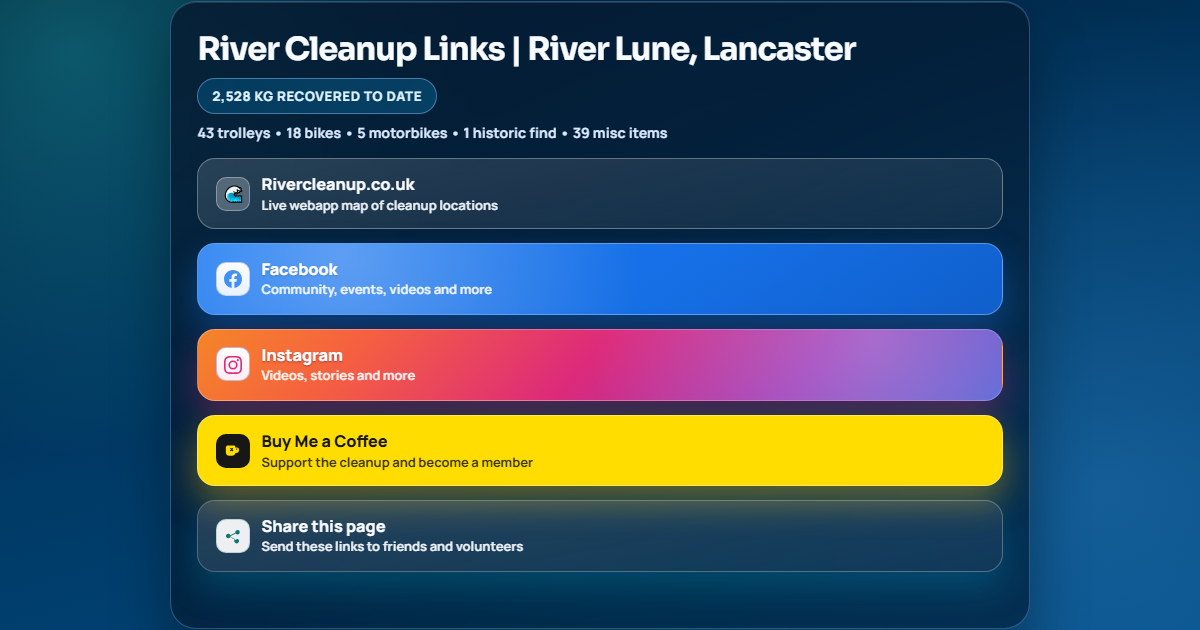
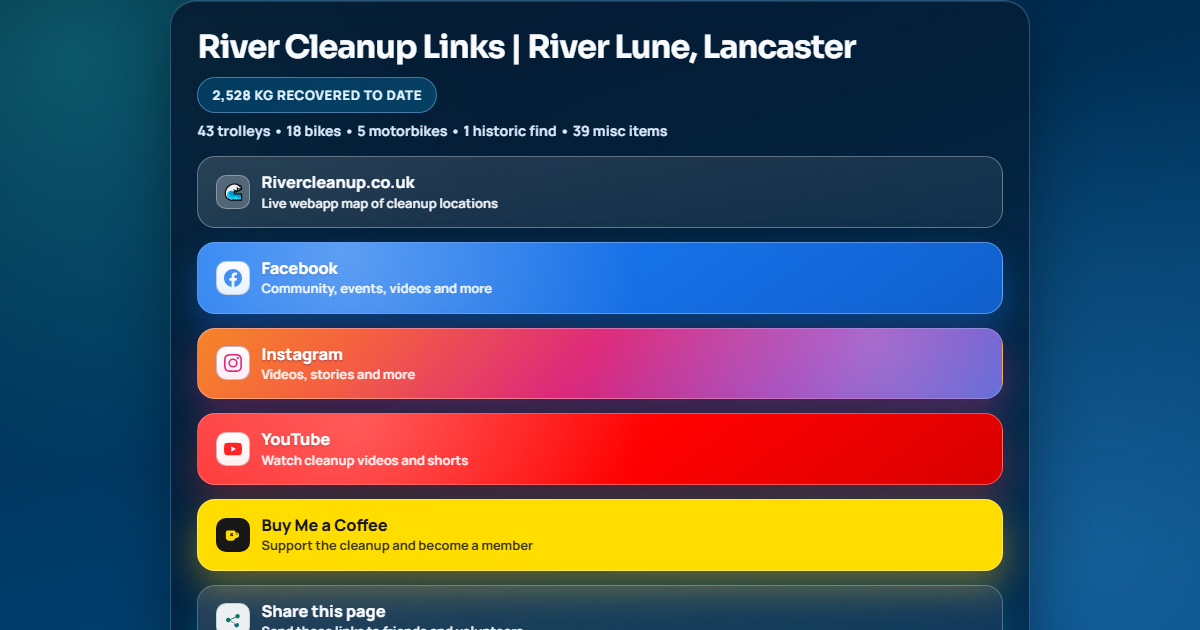
feat: add YouTube link to top bar and update styles for brand integration

diff --git a/src/main.jsx b/src/main.jsx
@@ -4590,6 +4590,30 @@ function AppTopBar({
                                     <span aria-hidden="true" style={{ color: "#94a3b8", fontSize: "0.9rem" }}>↗</span>
                                 </a>
 
+                                <a
+                                    href="https://www.youtube.com/@Rivercleanupuk"
+                                    target="_blank"
+                                    rel="noreferrer"
+                                    className="app-topbar-menu-item"
+                                    onClick={closeMobileMenu}
+                                    style={{
+                                        ...mobileMenuItemBaseStyle,
+                                        borderColor: "rgba(220,38,38,0.26)",
+                                        background: "linear-gradient(180deg, rgba(254,242,242,0.98), rgba(255,247,247,0.96))",
+                                    }}
+                                >
+                                    <span aria-hidden="true" style={{ color: "#dc2626", display: "inline-flex", alignItems: "center", justifyContent: "center" }}>
+                                        <svg xmlns="http://www.w3.org/2000/svg" width="18" height="18" viewBox="0 0 24 24" fill="currentColor" aria-hidden="true">
+                                            <path d="M23.498 6.186a2.997 2.997 0 0 0-2.11-2.122C19.54 3.545 12 3.545 12 3.545s-7.54 0-9.389.519a2.997 2.997 0 0 0-2.11 2.122A31.05 31.05 0 0 0 0 12a31.05 31.05 0 0 0 .502 5.814 2.997 2.997 0 0 0 2.11 2.122c1.848.519 9.388.519 9.388.519s7.54 0 9.389-.519a2.997 2.997 0 0 0 2.11-2.122A31.05 31.05 0 0 0 24 12a31.05 31.05 0 0 0-.502-5.814ZM9.75 15.568V8.432L15.955 12 9.75 15.568Z"/>
+                                        </svg>
+                                    </span>
+                                    <span style={{ display: "grid", gap: "2px", minWidth: 0 }}>
+                                        <span style={{ fontSize: "0.84rem", fontWeight: 800, color: "#0f172a" }}>YouTube</span>
+                                        <span style={{ fontSize: "0.74rem", color: "#475569" }}>Watch cleanup videos and shorts.</span>
+                                    </span>
+                                    <span aria-hidden="true" style={{ color: "#94a3b8", fontSize: "0.9rem" }}>↗</span>
+                                </a>
+
                                 <button
                                     type="button"
                                     className="app-topbar-menu-item"
@@ -4728,6 +4752,25 @@ function AppTopBar({
                         >
                             <svg xmlns="http://www.w3.org/2000/svg" width="20" height="20" viewBox="0 0 24 24" fill="currentColor" aria-hidden="true">
                                 <path d="M12 2.163c3.204 0 3.584.012 4.85.07 3.252.148 4.771 1.691 4.919 4.919.058 1.265.069 1.645.069 4.849 0 3.205-.012 3.584-.069 4.849-.149 3.225-1.664 4.771-4.919 4.919-1.266.058-1.644.07-4.85.07-3.204 0-3.584-.012-4.849-.07-3.26-.149-4.771-1.699-4.919-4.92-.058-1.265-.07-1.644-.07-4.849 0-3.204.013-3.583.07-4.849.149-3.227 1.664-4.771 4.919-4.919 1.266-.057 1.645-.069 4.849-.069ZM12 0C8.741 0 8.333.014 7.053.072 2.695.272.273 2.69.073 7.052.014 8.333 0 8.741 0 12c0 3.259.014 3.668.072 4.948.2 4.358 2.618 6.78 6.98 6.98C8.333 23.986 8.741 24 12 24c3.259 0 3.668-.014 4.948-.072 4.354-.2 6.782-2.618 6.979-6.98.059-1.28.073-1.689.073-4.948 0-3.259-.014-3.667-.072-4.947-.196-4.354-2.617-6.78-6.979-6.98C15.668.014 15.259 0 12 0Zm0 5.838a6.162 6.162 0 1 0 0 12.324 6.162 6.162 0 0 0 0-12.324ZM12 16a4 4 0 1 1 0-8 4 4 0 0 1 0 8Zm6.406-11.845a1.44 1.44 0 1 0 0 2.881 1.44 1.44 0 0 0 0-2.881Z"/>
+                            </svg>
+                        </a>
+
+                        <a
+                            href="https://www.youtube.com/@Rivercleanupuk"
+                            target="_blank"
+                            rel="noreferrer"
+                            style={{
+                                ...desktopActionButtonStyle,
+                                border: "1px solid #dc2626",
+                                background: "linear-gradient(135deg, #ff4343 0%, #ff0000 60%, #d80000 100%)",
+                                color: "#fff",
+                                padding: "0 11px",
+                                textDecoration: "none",
+                            }}
+                            aria-label="YouTube channel"
+                        >
+                            <svg xmlns="http://www.w3.org/2000/svg" width="20" height="20" viewBox="0 0 24 24" fill="currentColor" aria-hidden="true">
+                                <path d="M23.498 6.186a2.997 2.997 0 0 0-2.11-2.122C19.54 3.545 12 3.545 12 3.545s-7.54 0-9.389.519a2.997 2.997 0 0 0-2.11 2.122A31.05 31.05 0 0 0 0 12a31.05 31.05 0 0 0 .502 5.814 2.997 2.997 0 0 0 2.11 2.122c1.848.519 9.388.519 9.388.519s7.54 0 9.389-.519a2.997 2.997 0 0 0 2.11-2.122A31.05 31.05 0 0 0 24 12a31.05 31.05 0 0 0-.502-5.814ZM9.75 15.568V8.432L15.955 12 9.75 15.568Z"/>
                             </svg>
                         </a>
 

diff --git a/links/styles.css b/links/styles.css
@@ -262,6 +262,40 @@ button.link-card:focus-visible::before {
   color: rgba(255, 255, 255, 0.95);
 }
 
+.brand-youtube {
+  background: linear-gradient(145deg, #ff3131 0%, #ff0000 55%, #d80000 100%) !important;
+  background-size: 180% 180%;
+  animation: brandDrift 8s ease-in-out infinite;
+  box-shadow: 0 16px 34px rgba(220, 38, 38, 0.34);
+  border-color: rgba(255, 255, 255, 0.55);
+  color: #ffffff;
+  position: relative;
+}
+
+.brand-youtube::after {
+  content: "";
+  position: absolute;
+  inset: 0;
+  background: radial-gradient(circle at 20% 18%, rgba(255, 255, 255, 0.26), transparent 44%);
+  pointer-events: none;
+}
+
+.brand-youtube .icon-chip {
+  background: linear-gradient(180deg, rgba(255, 255, 255, 0.99), rgba(255, 241, 241, 0.99));
+  color: #ff0000;
+  border-color: rgba(127, 29, 29, 0.34);
+}
+
+.brand-youtube .title {
+  color: #ffffff;
+  font-weight: 900;
+  text-shadow: 0 1px 2px rgba(98, 9, 9, 0.5);
+}
+
+.brand-youtube .description {
+  color: rgba(255, 255, 255, 0.95);
+}
+
 .brand-bmc {
   background: #ffdd00 !important;
   color: #171717;
@@ -341,10 +375,13 @@ ul li:nth-child(2) { animation-delay: 120ms; }
 ul li:nth-child(3) { animation-delay: 180ms; }
 ul li:nth-child(4) { animation-delay: 240ms; }
 ul li:nth-child(5) { animation-delay: 300ms; }
+ul li:nth-child(6) { animation-delay: 360ms; }
+ul li:nth-child(7) { animation-delay: 420ms; }
 
 @media (hover: none), (pointer: coarse) {
   .brand-facebook,
-  .brand-instagram {
+  .brand-instagram,
+  .brand-youtube {
     animation: none;
     background-size: 100% 100%;
   }

diff --git a/links/index.html b/links/index.html
@@ -95,6 +95,21 @@
           </a>
         </li>
         <li>
+          <a class="link-card brand-youtube" href="https://www.youtube.com/@Rivercleanupuk" target="_blank" rel="noreferrer">
+            <span class="link-left">
+              <span class="icon-chip" aria-hidden="true">
+                <svg xmlns="http://www.w3.org/2000/svg" width="18" height="18" viewBox="0 0 24 24" fill="currentColor">
+                  <path d="M23.498 6.186a2.997 2.997 0 0 0-2.11-2.122C19.54 3.545 12 3.545 12 3.545s-7.54 0-9.389.519a2.997 2.997 0 0 0-2.11 2.122A31.05 31.05 0 0 0 0 12a31.05 31.05 0 0 0 .502 5.814 2.997 2.997 0 0 0 2.11 2.122c1.848.519 9.388.519 9.388.519s7.54 0 9.389-.519a2.997 2.997 0 0 0 2.11-2.122A31.05 31.05 0 0 0 24 12a31.05 31.05 0 0 0-.502-5.814ZM9.75 15.568V8.432L15.955 12 9.75 15.568Z"/>
+                </svg>
+              </span>
+              <span class="text-stack">
+                <span class="title">YouTube</span>
+                <span class="description">Watch cleanup videos and shorts</span>
+              </span>
+            </span>
+          </a>
+        </li>
+        <li>
           <a class="link-card brand-bmc" href="https://buymeacoffee.com/rivercleanv" target="_blank" rel="noreferrer">
             <span class="link-left">
               <span class="icon-chip" aria-hidden="true">
